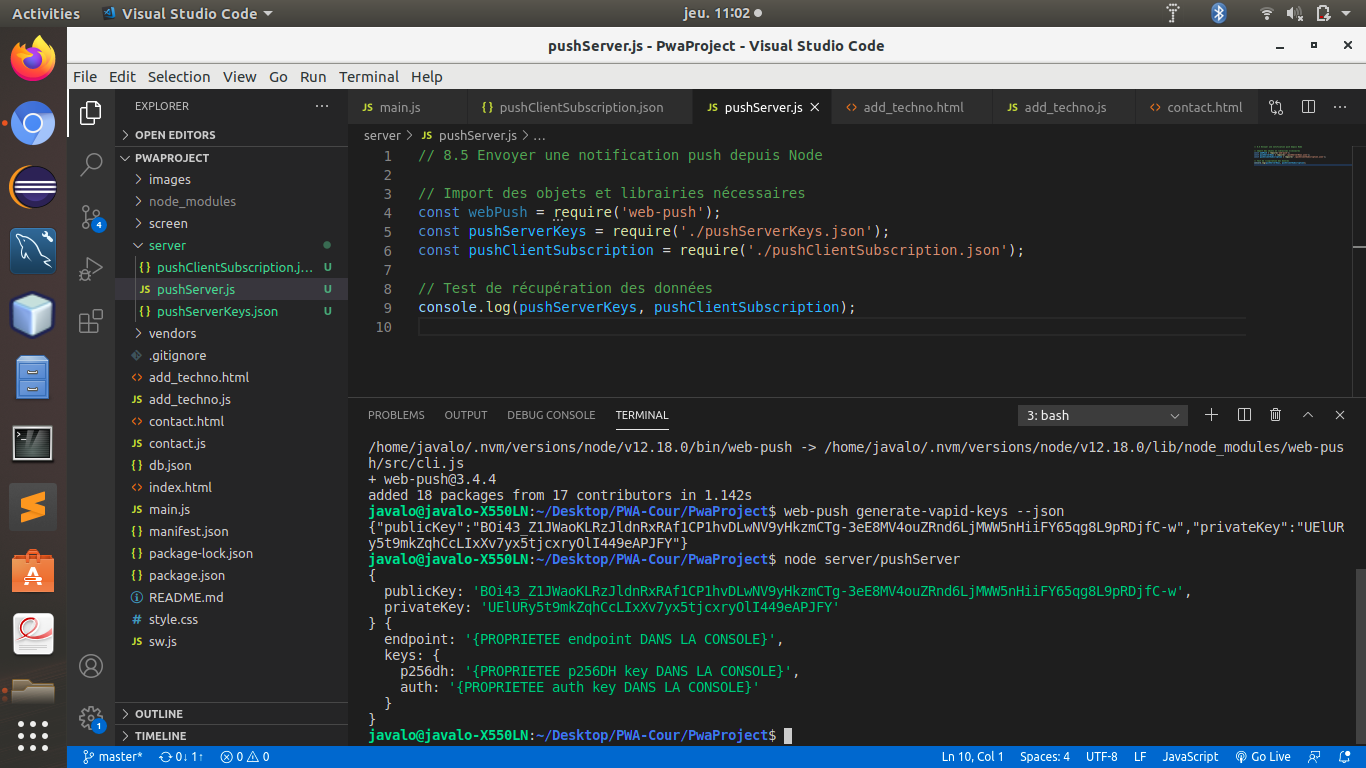
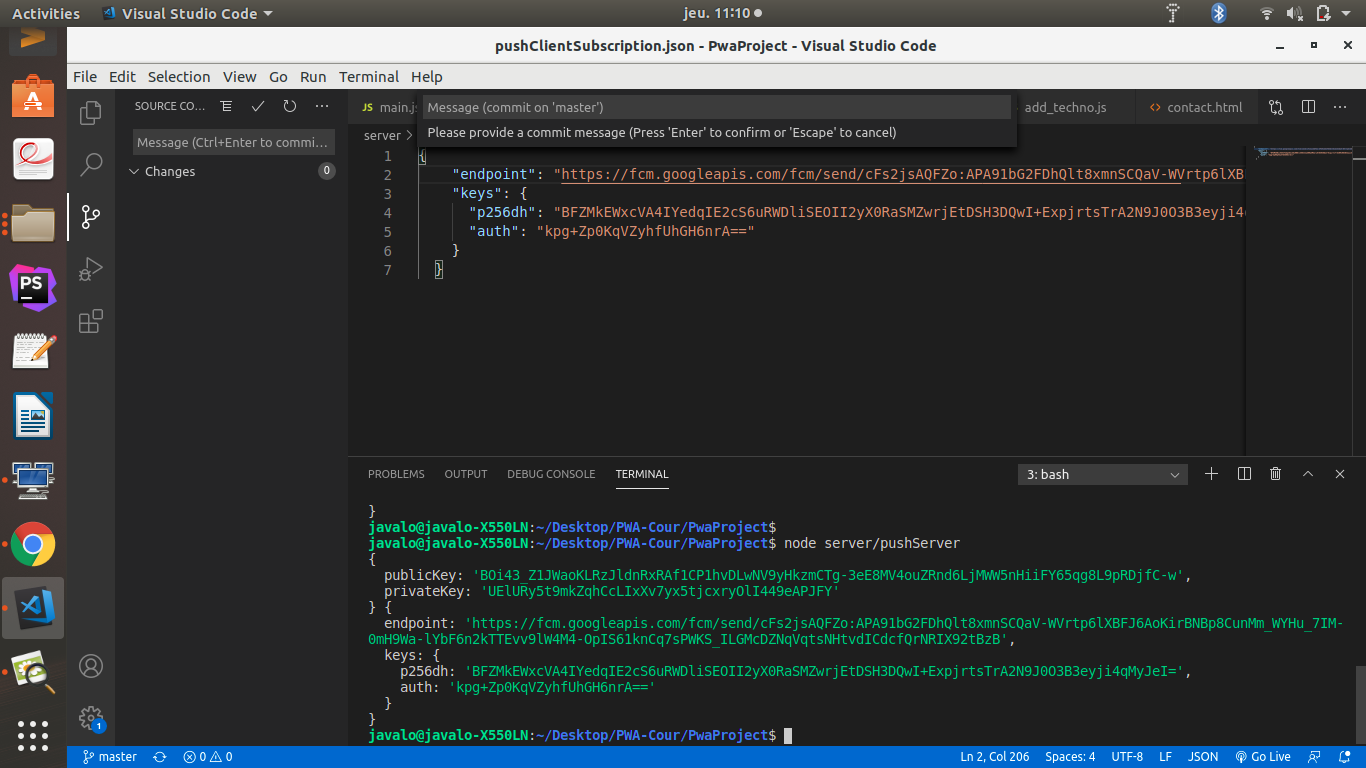
last 8.5

diff --git a/server/pushServer.js b/server/pushServer.js
@@ -1,9 +1,27 @@
 // 8.5 Envoyer une notification push depuis Node
-
 // Import des objets et librairies nécessaires
 const webPush = require('web-push');
 const pushServerKeys = require('./pushServerKeys.json');
 const pushClientSubscription = require('./pushClientSubscription.json');
-
-// Test de récupération des données
 console.log(pushServerKeys, pushClientSubscription);
+ 
+// En production on ferait une boucle de l'ensemble des souscriptions pour envoyer les notifications
+// Configuration des "details" permettant au FCM de nous contacter
+webPush.setVapidDetails('mailto:quentinbc@gmail.com', pushServerKeys.publicKey, pushServerKeys.privateKey);
+ 
+// Pour sendNotification API reference sendNotification(pushSubscription, payload, options)
+// voir https://github.com/web-push-libs/web-push#sendnotificationpushsubscription-payload-options
+webPush.sendNotification(pushClientSubscription, 'Notification envoyée depuis le serveur push node :)')
+.then(
+    function(result){
+        console.log("sendNotification SUCCESS", result);
+    },
+    function(err){
+        console.log("sendNotification ERROR", err);
+    }
+)
+.catch(
+    function(err){
+        console.log("sendNotification ERROR catch", err);
+    }
+)
